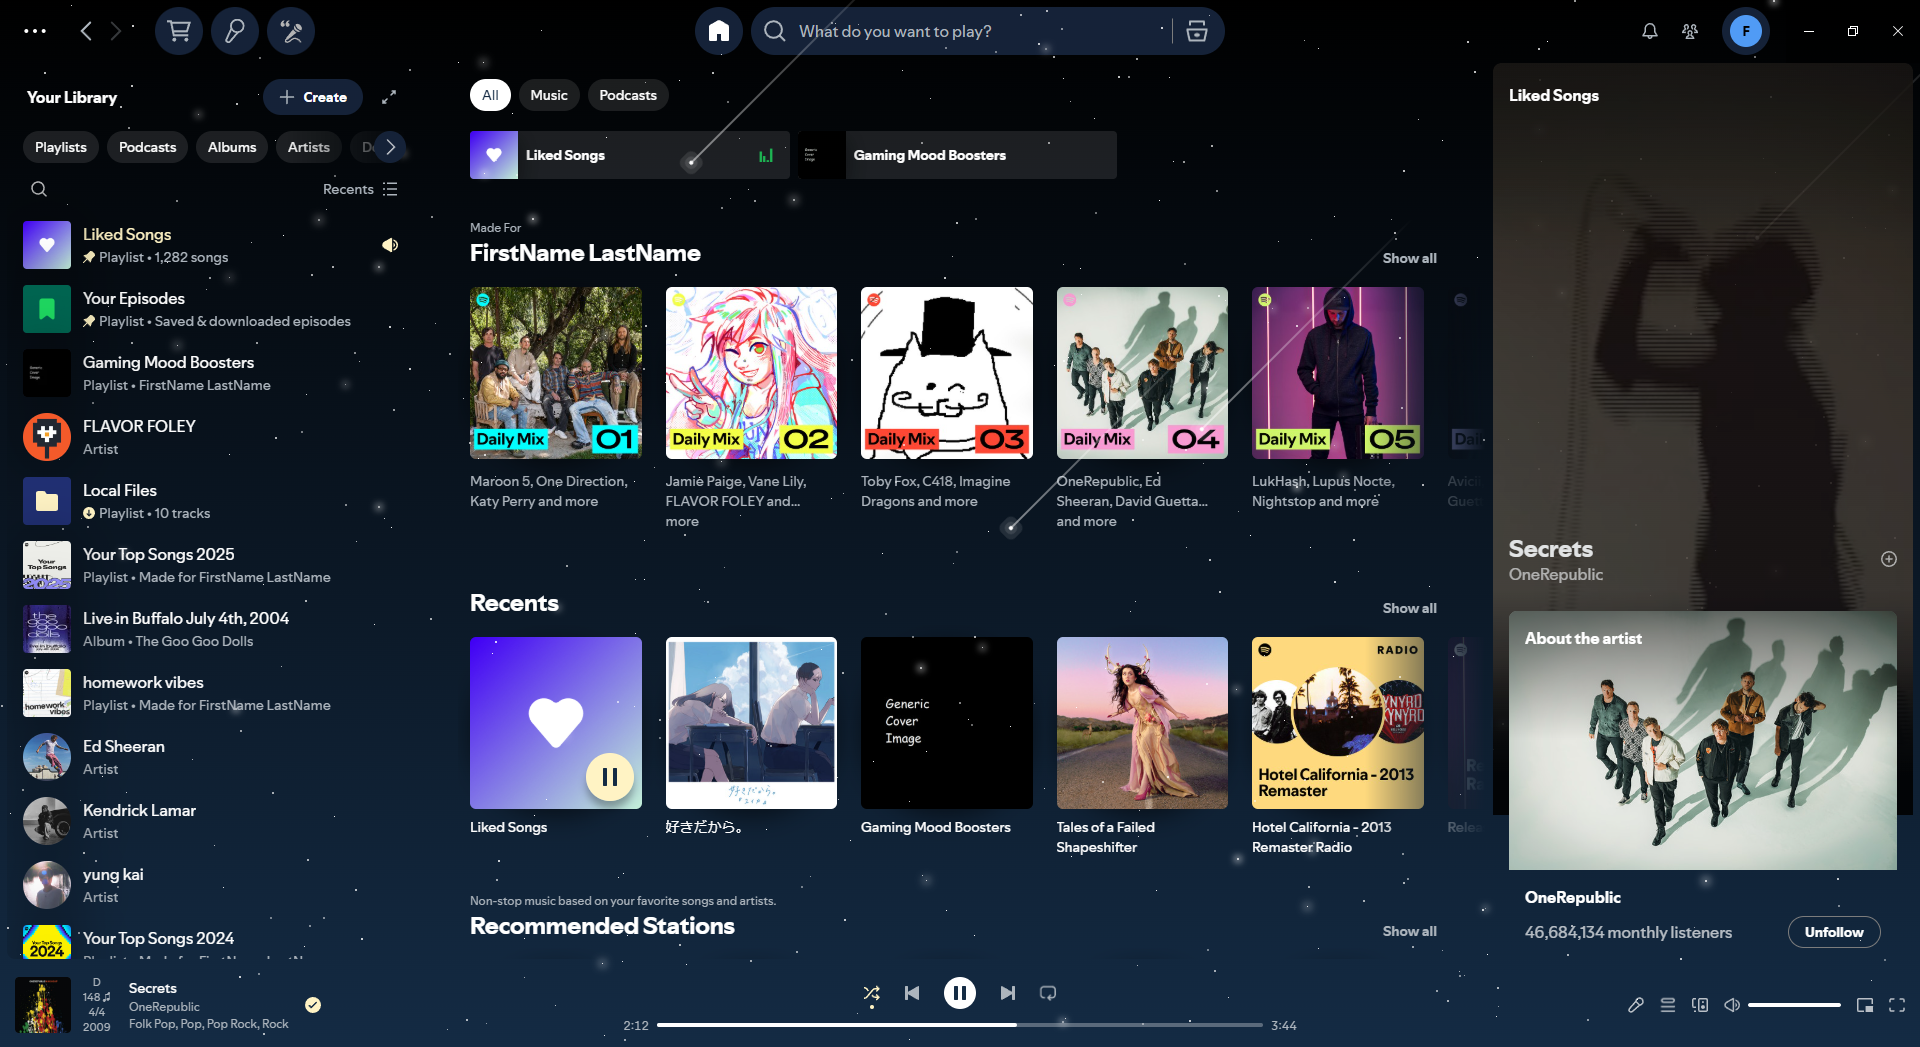
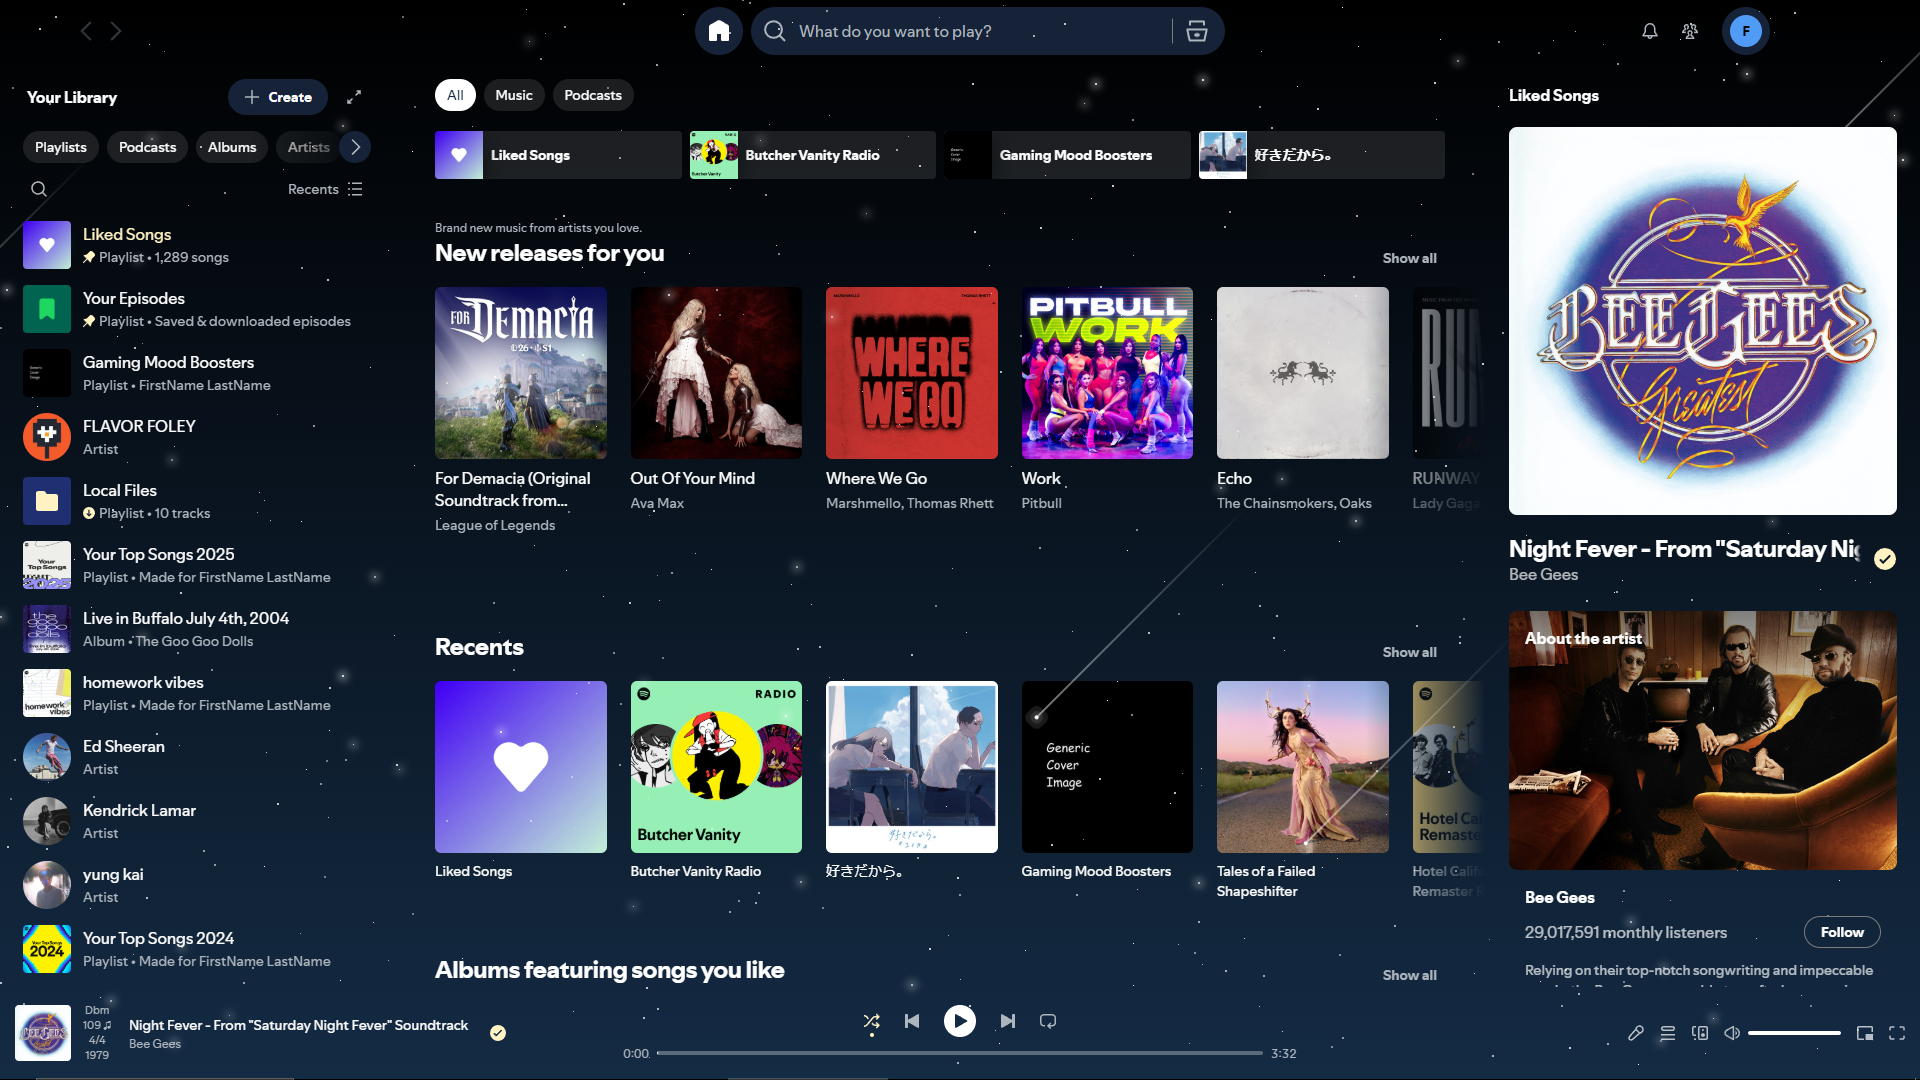
Updated README with images

diff --git a/user.css b/user.css
@@ -133,7 +133,7 @@
 }
 
 /* background of top bar */
-.main-topBar-overlay,.main-topBar-background, .main-home-filterChipsSection {
+.main-topBar-overlay,.main-topBar-background, .main-home-filterChipsSection, .HOf9H18Ya0DkJ4_K {
   background-image: linear-gradient(180deg, var(--spice-sidebar-alt), var(--spice-sidebar));
   background-size: 100vw 100vh;
   background-position: top -100% left;
@@ -196,10 +196,15 @@
   background-color: transparent;
 }
 
-.main-nowPlayingView-nowPlayingWidget {
-  opacity: 0.88;
+/* top result background in search */
+.iGrz9_1aUhECnc_S{
+  background-color: transparent;
 }
 
+/* artist image in now playing */
+.B3B0XuueQy4Swpyw, .ppsr9k1cXo055Z3t, .P1a_MNB6ZEIu50sz {
+  border-radius: 8px;
+}
 @keyframes twinkle1 {
   0% {
     box-shadow: 0px 0px 8px 2px var(--spice-star-glow);

diff --git a/README.md b/README.md
@@ -10,6 +10,31 @@ A theme derived from the [original StarryNight](https://github.com/spicetify/spi
 
 ![Base](assets\base.png "Base")
 
+### Cotton Candy
+
+![Cotton Candy](assets\cotton_candy.png "Cotton Candy")
+
+### Forest
+
+![Forest](assets\forest.png "Forest")
+
+### Orange
+
+![Orange](assets\orange.png "Orange")
+
+### Sky
+
+![Sky](assets\sky.png "Sky")
+
+### Sunrise
+
+![Sunrise](assets\sunrise.png "Sunrise")
+
+## Prerequisites
+
+- [Spotify](https://www.spotify.com/us/download/windows/)
+- [Spicetify](https://github.com/spicetify)
+
 ## Installation
 
 ### Manual
